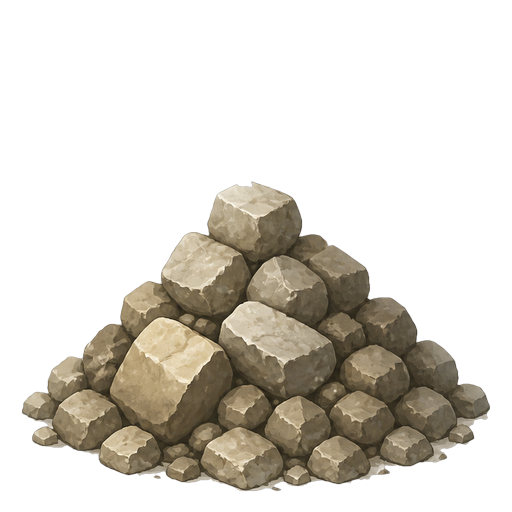
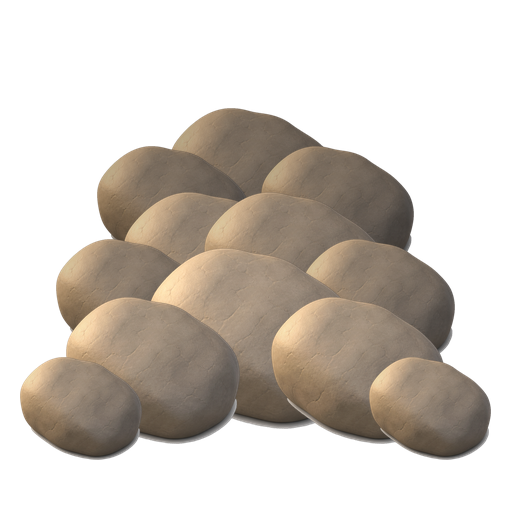
v281: Wenige grosse Felsbloecke statt Streu, Steinhaufen im Referenzstil
Im Referenzbild tragen WENIGE grosse Bloecke die Kuppe; bei uns lag
kleinteilige Streu. Zwei Stellschrauben, gegenlaeufig gesetzt, damit die
Felsmenge gleich bleibt:
- Setzdichte der Formationen 0,22 -> 0,13
- Zeichengroesse 0,88-1,12 -> 1,30-1,66, Stueckzahl je Formation 2-4 -> 1-2
  (ein grosser Block mit hoechstens einem Begleiter liest als Findling,
  nicht als Haufen)

obj_steinhaufen war der letzte Rest des alten Stils: eine Pyramide aus
eckigen Quadern, die neben den runden Findlingen sofort auffiel. Er
markiert den ABBAUBAREN Stein und musste deshalb unterscheidbar bleiben
- deshalb nicht einfach durch die Kieselgruppe ersetzt, sondern aus dem
runden Findling neu komponiert: zwoelf Steine zu einem aufgeschichteten
Haufen, hintere Reihen abgedunkelt. Aufgeschichtet = Rohstoff, lose
gestreut = Kulisse; die Trennung bleibt lesbar, der Stil stimmt jetzt.

Claude-Session: https://claude.ai/code/session_01NJiXwFpbq91ri9gPbhzERB

diff --git a/js/render.js b/js/render.js
@@ -6833,7 +6833,11 @@ export class Renderer {
   drawFelsFormation(g, m, i){
     const [px,py]=this.felsFormPos(i);
     const ox2=(hash01(i*13+3)-0.5)*14, oy2=(hash01(i*19+11)-0.5)*8;
-    const sc7=0.88+hash01(i*43+7)*0.24;
+    // GROESSE 0,88-1,12 -> 1,30-1,66: im Referenzbild tragen wenige GROSSE
+    // Bloecke die Kuppe. Zusammen mit der halbierten Setzdichte (map.js)
+    // bleibt die Felsmenge aehnlich, aber der einzelne Koerper wird
+    // markant statt kleinteilig.
+    const sc7=1.30+hash01(i*43+7)*0.36;
     const lz=this.felsLicht(i);
     const sp=hash01(i*53+11);
     const msn=this.massifSnow();
@@ -6910,7 +6914,10 @@ export class Renderer {
       // Koerper mit Schutt am Fuss statt als aufgeklebtes Bild.
       const nz9=this.felsGruppe(g,'natur', px+ox2, py+oy2+3, sc7,
                                 i*3+1, lz,
-                                2+((hash01(i*61+13)*2.6)|0), true, schnee9);
+                                // 2-4 Stuecke -> 1-2: ein grosser Block mit
+                                // hoechstens einem Begleiter liest als
+                                // Findling, nicht als Haufen (Referenz).
+                                1+((hash01(i*61+13)*1.9)|0), true, schnee9);
       if(nz9) return;
       // Rueckfall, falls kein Blatt geladen ist: erst das alte Einzelbild,
       // dann die prozeduralen Brocken.

diff --git a/js/map.js b/js/map.js
@@ -900,7 +900,11 @@ export function genWorld(opts){
     // Wand-Gipfel heraus; die Dichte steigt 0,17 -> 0,22, damit die
     // Gesamtzahl der Formationen etwa gleich bleibt (sie draengen sich
     // jetzt auf den Plateaus, wo Geroell auch liegen bliebe).
-    const dichte=0.22;
+    // DICHTE 0,22 -> 0,13 (Referenz-Diorama): dort sitzen auf der Kuppe
+    // WENIGE, dafuer grosse Bloecke - bei uns lag Streu. Zusammen mit der
+    // groesseren Zeichnung (render.js, sc7) ergibt das dieselbe Wirkung:
+    // markante Felskoerper statt Kies.
+    const dichte=0.13;
     for(let i=0;i<w*h;i++){
       if(!istBerg(i) || map.obj[i]) continue;
       if(map.pass && map.pass[i]) continue;

diff --git a/sw.js b/sw.js
@@ -6,7 +6,7 @@
 // Server längst die neue auslieferte. Beim Installieren wird zusätzlich am
 // HTTP-Cache vorbei geladen (cache:'reload'), sonst holt sich der neue
 // Serviceworker über die noch gültigen Cache-Header wieder die alten Bytes.
-const BUILD = 'v280';
+const BUILD = 'v281';
 const CACHE = 'neuland-' + BUILD;
 const FILES = [
   './', './index.html', './style.css', './manifest.webmanifest',
